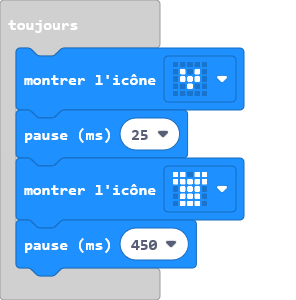
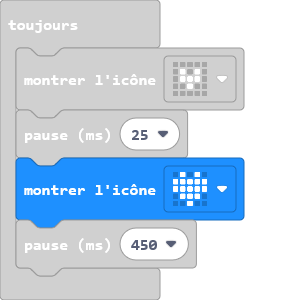
Mise à jour main.blocks, main.ts

diff --git a/main.ts b/main.ts
@@ -1,6 +1,6 @@
 basic.forever(function () {
     basic.showIcon(IconNames.SmallHeart)
     basic.pause(25)
-    basic.showIcon(IconNames.TShirt)
+    basic.showIcon(IconNames.Heart)
     basic.pause(450)
 })
